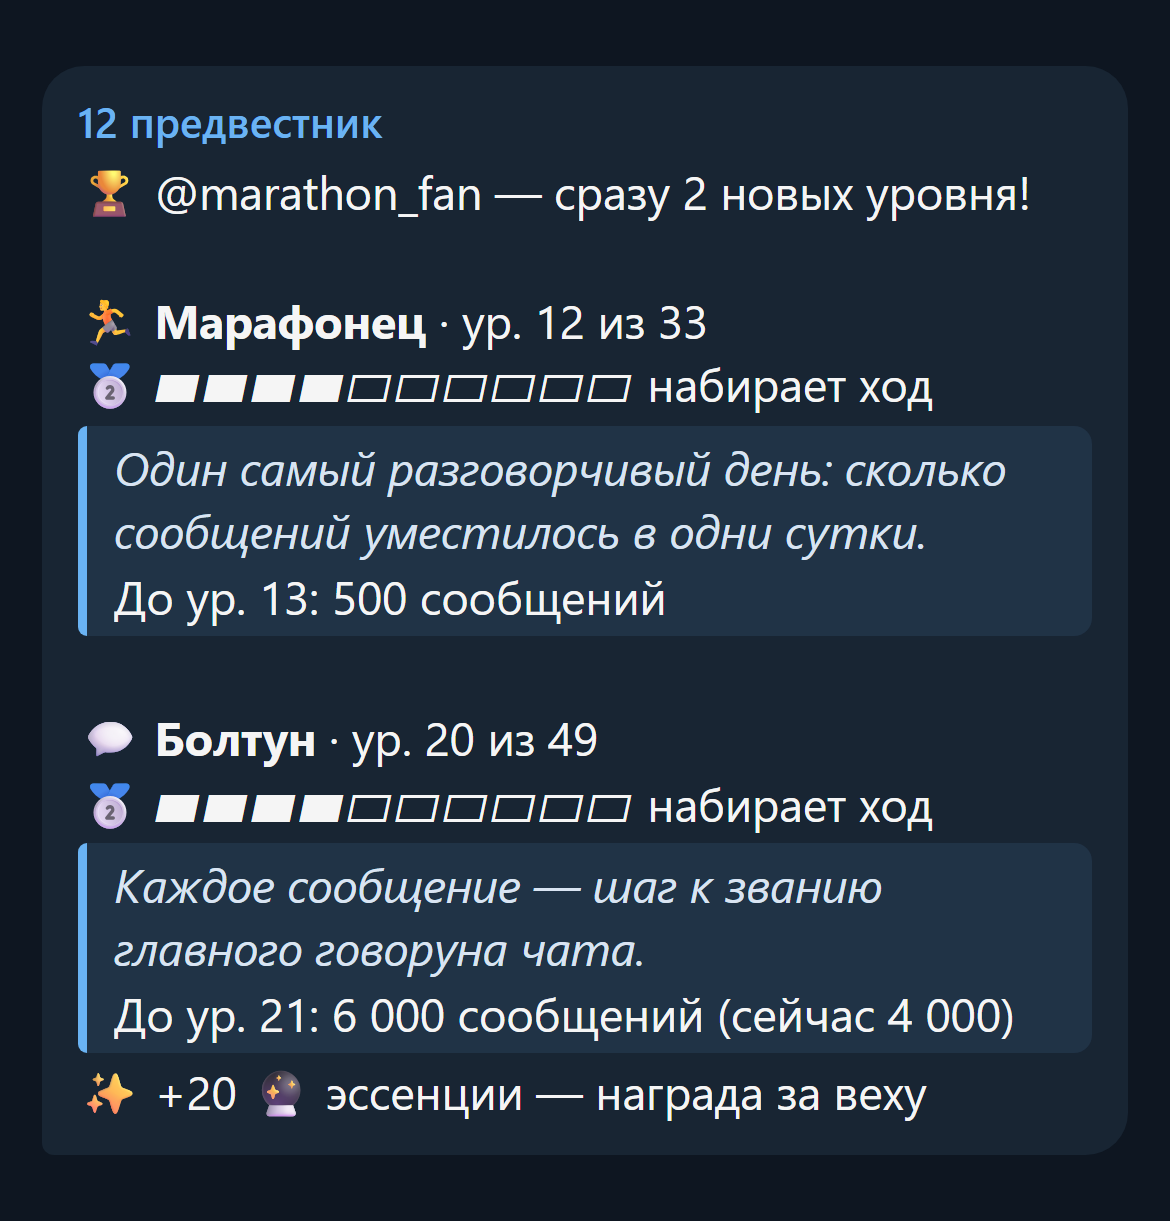
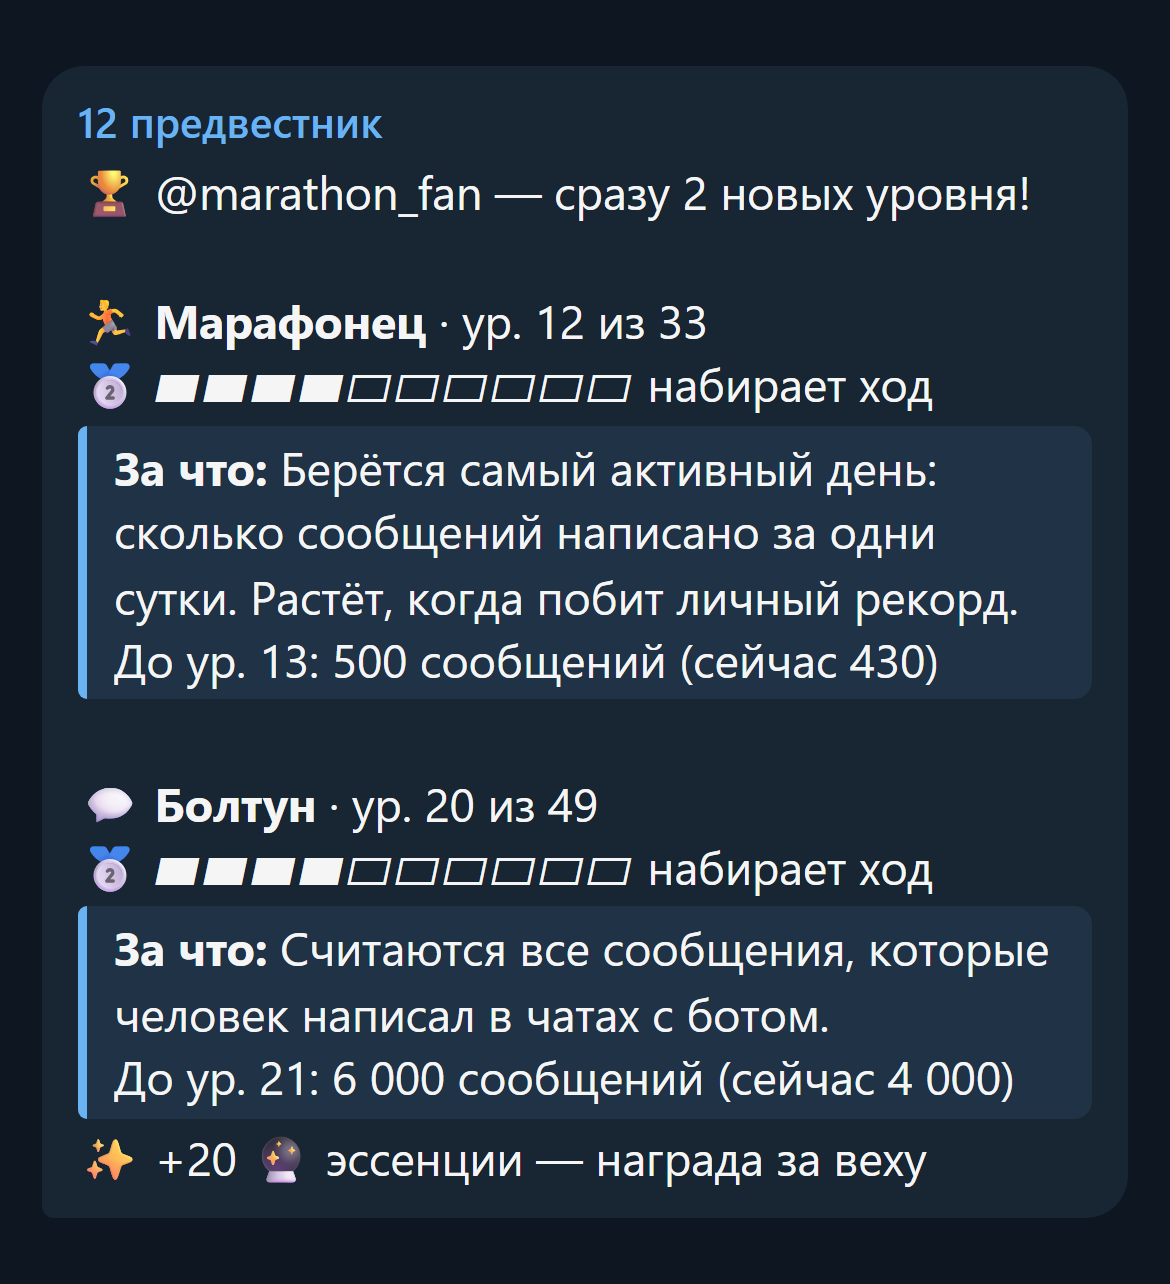
fix(predvestnik): описание достижения прямо говорит, что считается
Мини-описания переписаны по реальным правилам подсчёта (дневные лимиты варпов, переводов и моры,
обе стороны в победах Мафии, лучший день и серия) и подписаны «За что:». Склонение «мор» исправлено.

diff --git a/predvestnik_v2/bot/chat/achievements_data.py b/predvestnik_v2/bot/chat/achievements_data.py
@@ -92,7 +92,7 @@ ACHIEVEMENTS: tuple[Achievement, ...] = (
     Achievement("transfers", "🤝", "Щедрая душа", "transfers", "Переводов другим игрокам",
                 ("перевод", "перевода", "переводов"), ladder(1, 20_000), ("переводы", "щедрая душа")),
     Achievement("mora_given", "🪙", "Меценат", "transfers", "Моры передано другим игрокам",
-                ("мора", "моры", "моры"), ladder(1_000, 500_000_000, NORMAL), ("меценат",)),
+                ("мора", "моры", "мор"), ladder(1_000, 500_000_000, NORMAL), ("меценат",)),
     # ── Семья ────────────────────────────────────────────────────────────────
     Achievement("marriage_days", "💞", "Верность", "family", "Самый долгий брак",
                 DAYS, ladder(7, 3650), ("брак", "верность")),
@@ -109,23 +109,23 @@ ACHIEVEMENTS: tuple[Achievement, ...] = (
                 ("квест", "квеста", "квестов"), ladder(1, 20_000), ("квесты", "искатель")),
 )
 
-# Мини-описание: что именно считается и чем это красиво. Новое достижение без строки здесь не пройдёт тест.
+# Мини-описание: что именно считается (с дневными лимитами из achievements.py). Новое достижение без строки здесь не пройдёт тест.
 BLURBS = {
-    "messages": "Каждое сообщение — шаг к званию главного говоруна чата.",
-    "active_days": "Заглянул в чат — день засчитан. Главное — приходить.",
-    "best_day": "Один самый разговорчивый день: сколько сообщений уместилось в одни сутки.",
-    "chats": "В скольких разных чатах этого человека уже знают.",
-    "streak": "Самая длинная цепочка дней подряд, когда в чате была активность.",
-    "warps_sent": "Объятия, шутки и прочие варпы, которые раздаются другим.",
-    "warps_received": "Сколько внимания и тепла достаётся от других игроков.",
-    "transfers": "Сколько раз удалось поделиться с другими игроками.",
-    "mora_given": "Сколько моры подарено другим — чем больше, тем щедрее.",
-    "marriage_days": "Самый долгий брак: день за днём вместе.",
-    "mafia_games": "Партии Мафии, доигранные до конца, — за мирных или за мафию.",
-    "mafia_wins": "Победы в Мафии — и за мирных жителей, и за мафию.",
-    "rhythm_runs": "Забеги в Ритме, пройденные до последней ноты.",
-    "minesweeper_wins": "Минные поля, пройденные без единого взрыва.",
-    "quests": "Задания, которые доведены до конца.",
+    "messages": "Считаются все сообщения, которые человек написал в чатах с ботом.",
+    "active_days": "Считаются дни, когда человек написал в чат хотя бы одно сообщение.",
+    "best_day": "Берётся самый активный день: сколько сообщений написано за одни сутки. Растёт, когда побит личный рекорд.",
+    "chats": "Считаются разные чаты с ботом, где человек написал хотя бы раз.",
+    "streak": "Считаются дни подряд, когда человек писал в чатах. Пропуск обрывает серию, лучший результат остаётся.",
+    "warps_sent": "Считаются варп-команды — весёлые действия над другим игроком. В зачёт идут первые 10 в день.",
+    "warps_received": "Считаются варп-команды, которые другие игроки применили к человеку. В зачёт идут первые 10 в день.",
+    "transfers": "Считаются переводы моры другим игрокам. В зачёт идут первые 3 перевода в день.",
+    "mora_given": "Считается вся мора, переданная другим игрокам. В зачёт идут первые 5 000 моры в день.",
+    "marriage_days": "Считаются дни самого долгого брака: идущего сейчас или уже закончившегося.",
+    "mafia_games": "Считаются партии Мафии, доигранные до конца, — в любой роли.",
+    "mafia_wins": "Считаются победы в Мафии: и за мирных жителей, и за мафию.",
+    "rhythm_runs": "Считаются забеги в Ритме, пройденные до конца.",
+    "minesweeper_wins": "Считаются выигранные партии в Сапёре.",
+    "quests": "Считаются выполненные задания (квесты).",
 }
 
 BY_ID = {a.id: a for a in ACHIEVEMENTS}

diff --git a/predvestnik_v2/tools/test_achievements_announcement.py b/predvestnik_v2/tools/test_achievements_announcement.py
@@ -19,7 +19,7 @@ from bot.chat.achievements_data import ACHIEVEMENTS, BLURBS   # noqa: E402
 def main() -> None:
     assert set(BLURBS) == {a.id for a in ACHIEVEMENTS}, "у каждого достижения должно быть мини-описание, и только у них"
     for a in ACHIEVEMENTS:
-        assert 20 <= len(a.blurb) <= 90 and a.blurb.endswith((".", "…")), (a.id, a.blurb)
+        assert 20 <= len(a.blurb) <= 125 and a.blurb.startswith(("Считают", "Считается", "Берётся")) and a.blurb.endswith("."), (a.id, a.blurb)   # что именно считается, а не лирика
         assert not re.search(r"\b(ты|тебя|тебе|твой|твою|твоя)\b", a.blurb.lower()), f"{a.id}: объявление читает весь чат"
 
     # Шкала: от одной клетки до полной, пустая клетка не бывает «нулём» и полная — только на вершине.
@@ -33,7 +33,7 @@ def main() -> None:
     runner = ach.BY_ID["best_day"]
     text = ach.announcement("@sweetpoison234", [ach.Up(runner, 2, 0, 62)])
     assert text.startswith("🏆 @sweetpoison234 — новый уровень!\n\n🏃 <b>Марафонец</b> · ур. 2 из 33"), text
-    assert runner.blurb in text and "До ур. 3: 70 сообщений (сейчас 62)" in text and "эссенции" not in text, text
+    assert f"<b>За что:</b> {runner.blurb}" in text and "До ур. 3: 70 сообщений (сейчас 62)" in text and "эссенции" not in text, text
 
     top = ach.BY_ID["mafia_wins"]
     many = ach.announcement("@x", [ach.Up(ach.BY_ID["messages"], 30, 30, 5000), ach.Up(top, top.max_level, 0)])

diff --git a/predvestnik_v2/bot/chat/achievements.py b/predvestnik_v2/bot/chat/achievements.py
@@ -279,7 +279,7 @@ def _up_block(u: Up) -> str:
             f" (сейчас {fmt(u.value)})" if u.value and u.value < nxt else "")
     lines = [f"{a.icon} <b>{a.name}</b> · ур. {level} из {a.max_level}",
              f"{medal(level, a.max_level)} {ladder_bar(level, a.max_level)} {stage(level, a.max_level)}",
-             quote([f"<i>{a.blurb}</i>", ahead])]
+             quote([f"<b>За что:</b> {a.blurb}", ahead])]
     if u.essence:
         lines.append(f"✨ +{u.essence} 🔮 эссенции — награда за веху")
     return "\n".join(lines)
@@ -435,7 +435,7 @@ async def detail(db, user_id: int, a: Achievement) -> str:
     nxt = a.thresholds[level:level + 5]
     ahead = " → ".join(fmt(x) for x in nxt) if nxt else "все уровни пройдены 👑"
     return (f"{a.icon} <b>{a.name}</b> · {medal(level, a.max_level)} ур. {level}/{a.max_level}\n"
-            f"<i>{a.blurb}</i>\n"
+            f"<b>За что:</b> {a.blurb}\n"
             f"{a.measure}: <b>{fmt(value)}</b> {plural(value, a.unit)}\n"
             + quote([f"Следующие пороги: {ahead}",
                      f"Последний уровень: {fmt(a.thresholds[-1])} {plural(a.thresholds[-1], a.unit)}"])
